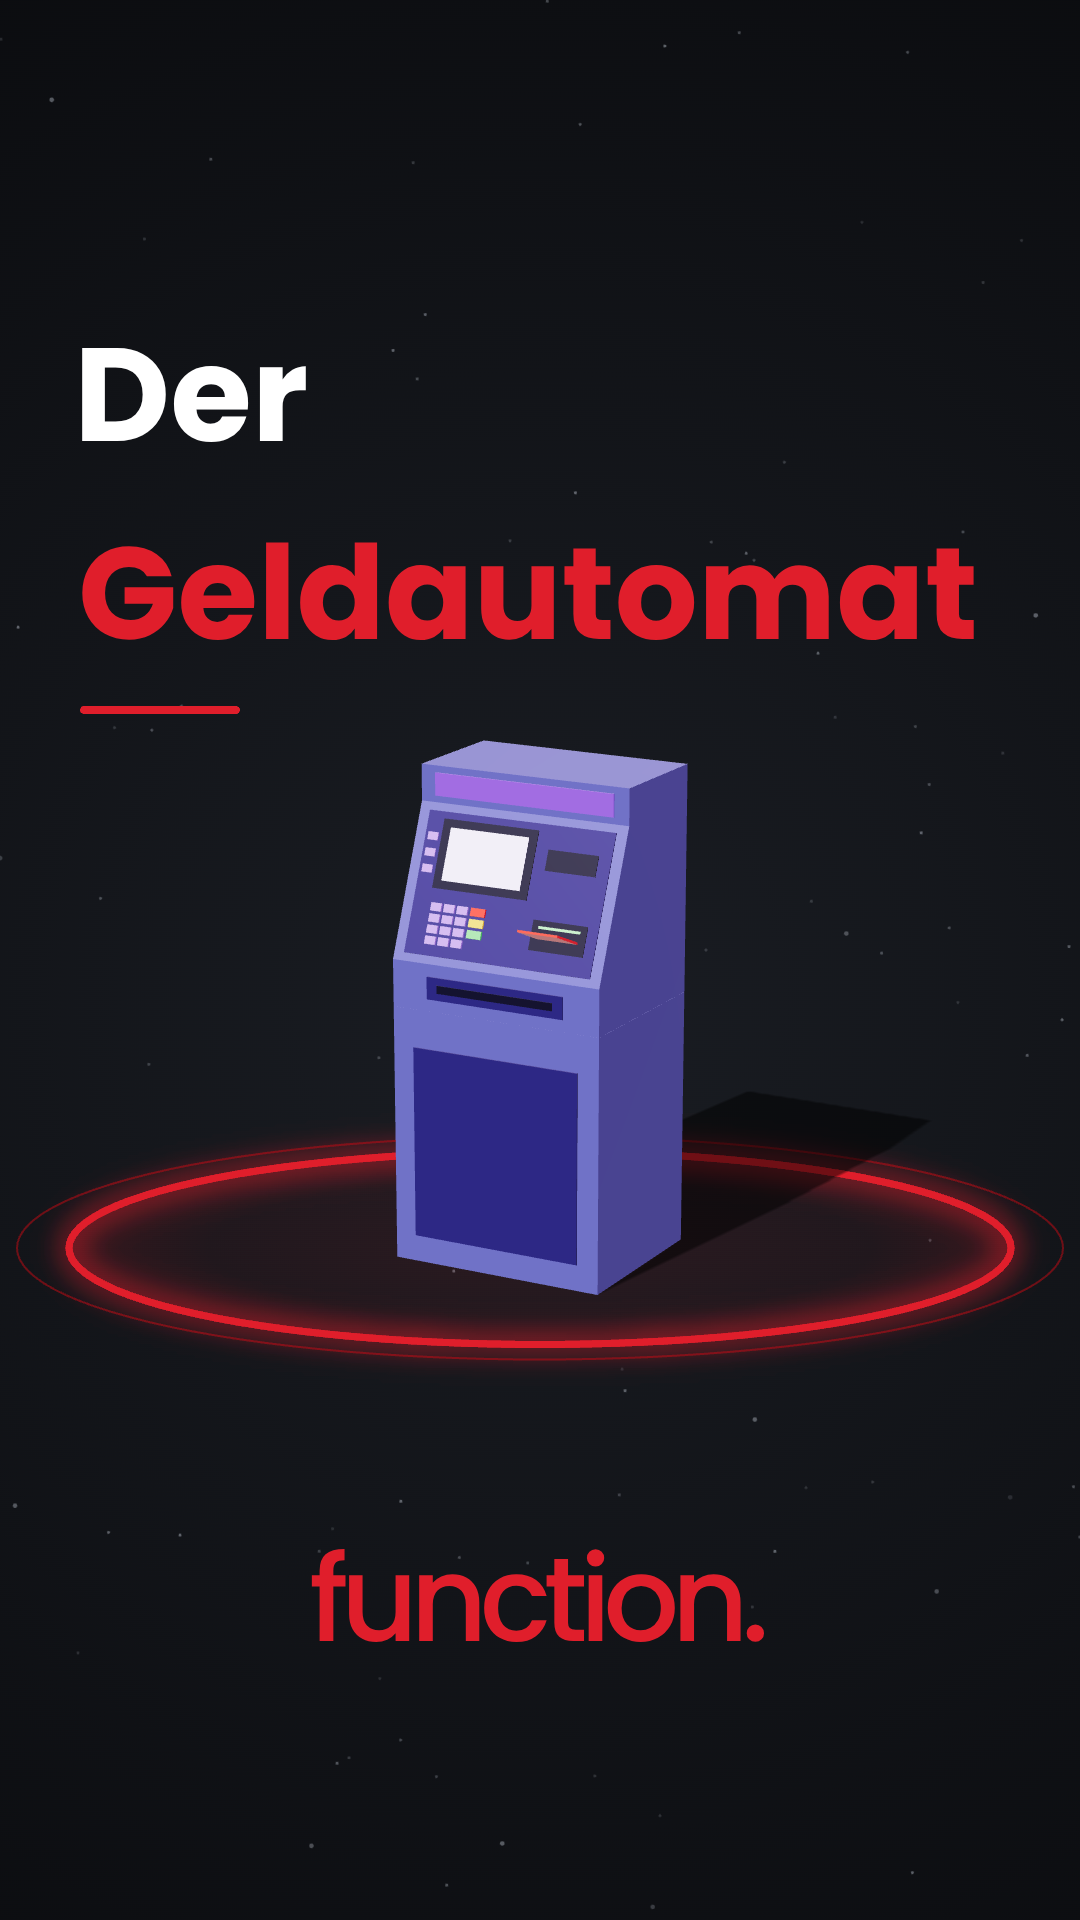
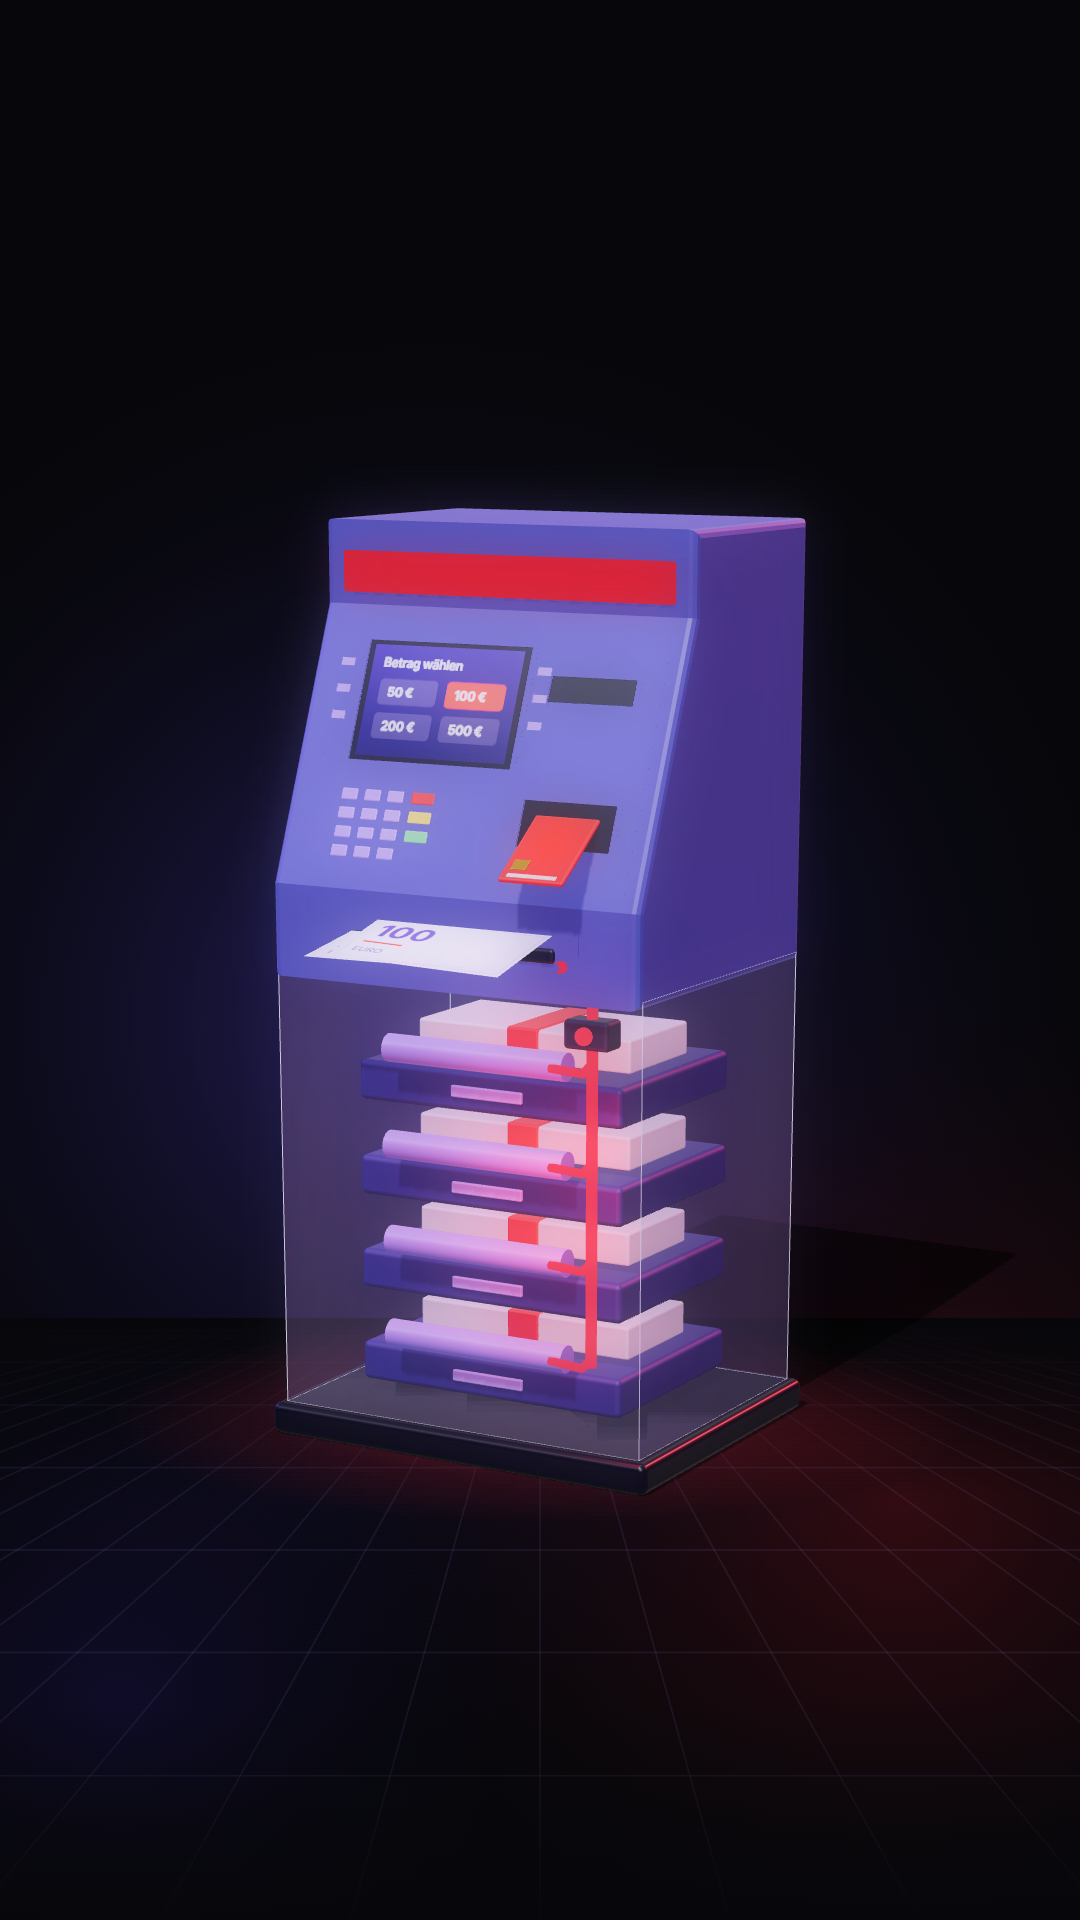
Geldautomat: cleanes Cover ohne Text als finales Cover, Cover-Regel aktualisiert
Claude-Session: https://claude.ai/code/session_01JQEQekkBb92rcFjdCYtWsZ

Changed region(s): [[0.0306, 0.25, 0.9778, 0.8125], [0.275, 0.8125, 0.7028, 0.875], [0.0611, 0.1562, 0.3056, 0.25]]

diff --git a/CLAUDE.md b/CLAUDE.md
@@ -15,13 +15,7 @@
 - **Stimme (ab 15.11.2026):** ElevenLabs „Tom Magic“ (voice_id `xouqnknI7nCiPaJ9gwt8`), Modell **eleven_v4**, mit Audio-Tags. Claude erzeugt die Stimme selbst über den ElevenLabs-Connector (Download-Host elevenlabsusercontent.com ist freigeschaltet). Abgelehnt: selbst entworfene Voice-Design-Stimmen. Fremde Creator-Stimmen (z. B. schraffuren) nie klonen.
 - **Musik:** im schraffuren-Stil (Instagram „schraffuren“, Original-Audio): weicher tiefer Puls ~100 BPM, Sub-Bass, leise luftige Fläche, fast keine Melodie/Hi-Hats, ca. 15 dB unter der Stimme (Referenz: `paket-test/music_variants.py` → `track_D`).
 - **Übergangs-Sounds:** keine Standard-Synth-Whooshes („hat jeder auf TikTok“). Für Wischer/Szenenwechsel die vom Nutzer gelieferten Epidemic-Sounds verwenden: `paket-test/sfx_epidemic/whoosh.mp3` (2 weiche Swooshes) und `clicks.mp3` (3 UI-Klicks, z. B. wenn eine Zahl erscheint).
-- **Cover:** exakt wie das BER-Cover (Vorlage vom Nutzer, pixelgenau vermessen) – Template `paket-test/cover3.html` (Titel per URL `?l1=…&l2=…`):
-  - Hintergrund: radialer Verlauf #1A1D23 → #0A0B0E mit feinen Sternpunkten.
-  - Titel LINKSBÜNDIG (Tinte ab x=82): Zeile 1 weiß, Poppins Bold, Oberkante y≈335, Grundlinie y=441; Zeile 2 rot #E01E2B, Poppins Bold, Großbuchstaben-Oberkante y≈468, Grundlinie y=601 (enger Zeilenabstand: nur ~27 px Luft zwischen Zeile 1 und Zeile 2, Wunsch des Nutzers 16.11.2026 – der alte Abstand mit Oberkante y=506 war „zu viel Abstand“). Schlichter Titel („Flughafen BER“, „Das Paket“).
-  - Roter Strich x 80–240, y 654–662, abgerundet (rückt mit Zeile 2 nach oben).
-  - Liegender roter Ring: Ellipse Mitte (540, 1248), außen rx 474,5 / ry 100, 7 px mit Glow, dünner dunkelroter Außenring #6E0F16 (rx 524 / ry 112,5), leichter roter Schimmer innen. Motiv steht mittig auf dem Ring.
-  - Logo „function.“ Poppins Medium, zentriert, Tinte x 311–765, f-Oberkante y=1548, Grundlinie y=1641.
-  - Nicht verwenden: zentrierte Fragetitel mit Kreisringen (alte cover6/7-Variante).
-- **Schrift für Titel (Wunsch des Nutzers, 16.11.2026):** Inter Tight (ExtraBold 800, leicht enge Laufweite) statt Poppins, weil sie moderner wirkt. Das Logo „function.“ bleibt in Poppins Medium. Paket: `@fontsource/inter-tight`.
-- **Cover, freie moderne Variante (16.11.2026, Entwurf, Rückmeldung des Nutzers steht noch aus):** `geldautomat/cover_atm_modern.html`. Roter Kicker „SO FUNKTIONIERT“, sehr großer weißer Titel in Inter Tight, kurze Unterzeile, großes Motiv mit Röntgenblick ins Innere und drei Beschriftungen, Logo unten links.
+- **Cover (ab 16.11.2026, Wahl des Nutzers): ganz clean.** Nur das 3D-Hauptmotiv groß und mittig, ohne Titel, ohne Logo, ohne Beschriftungen. Vorlage: `geldautomat/cover_atm_modern.html?mode=clean` (dunkler Hintergrund #07070B mit violettem und rotem Licht, feines Bodenraster, roter Lichtschein unter dem Motiv, kleine rote Details am Motiv selbst). Das Motiv soll etwas zeigen, das neugierig macht, z. B. den Blick ins Innere.
+  - Abgelöst: das alte BER-Template `paket-test/cover3.html` (Titel links, roter Ring, Logo unten mittig) sowie die Varianten „minimal“ (Titel + Logo) und „voll“ (Kicker, Unterzeile, Beschriftungen), beide über `?mode=mini` bzw. `?mode=full` noch abrufbar.
+- **Schrift für Titel (Wunsch des Nutzers, 16.11.2026):** Inter Tight (ExtraBold 800, leicht enge Laufweite) statt Poppins, weil sie moderner wirkt, z. B. für Titel und Zahlen im Video. Das Logo „function.“ bleibt in Poppins Medium. Paket: `@fontsource/inter-tight`.
 - Referenz-Umsetzung: `paket-test/v4.html` → `drawOutro()`, Ton in `paket-test/audio2.py` (Abschnitt „outro (themed …)“).
